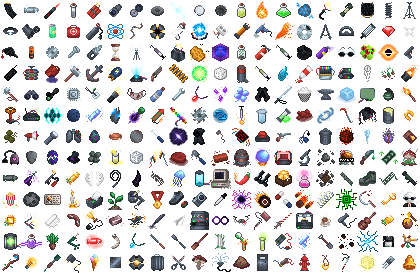
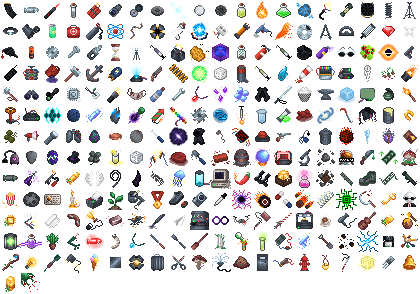
update

diff --git a/index.html b/index.html
@@ -67,7 +67,7 @@
             transition: transform 0.1s, border-color 0.2s, background-color 0.2s;
             
             box-shadow: inset 0 0 0 2px transparent; 
-            background-size: 1260px 819px; 
+            background-size: 1260px 882px; 
         }
 
         .item-icon:hover {
@@ -326,7 +326,7 @@
             { id: 114, name: "Сконцентрированная кислота", desc: "Шанс выстрелить капсулой с кислотой. Поражённое капсулой существо начнёт бесконечно истекать жидкостью, пока не погибнет. Шанс зависит от удачи." },
             { id: 115, name: "Стволовые клетки", desc: "Снижает максимальный запас здоровья на 30%. Далее каждый выбранный предмет дополнительно будет повышать максимальный запас здоровья на 15%." },
             { id: 116, name: "Квазар", desc: "Добавляет дополнительную заряжаемую атаку лазером с неограниченной дальностью. Заряд накапливается в процессе стрельбы." },
-            { id: 117, name: "Монтировка", desc: "Позволяет открывать все запертые двери без использования автоматической отмычки." },
+            { id: 117, name: "Монтировка", desc: "Первое попадание по существу наносит в 2 раза больше урона." },
             { id: 118, name: "Неисправный экзоскелет", desc: "Снижает скорость ходьбы и бега на 40%. Повышает максимальный запас здоровья на 500 единиц. Не даёт здоровью повышаться и блокирует регенерацию. Враждебные турели больше не атакуют персонажа." },
             { id: 119, name: "Нитроглицерин", desc: "Делает все жидкости, созданные персонажем или оружием взрывными." },
             { id: 120, name: "Золотая подкова", desc: "Повышает: удачу на 2, скорость ходьбы и бега персонажа на 10%." },
@@ -346,7 +346,7 @@
             { id: 134, name: "Русская рулетка", desc: "Повышает урон в 2.5 раза. В персонажа постоянно целится револьвер, который может выстрелить вместе с ним всегда с шансом 1/6. Урон выстрела револьвера зависит от урона игрока." },
             { id: 135, name: "Машинное масло", desc: "Повышает скорострельность на 75%. Персонаж замедляется плавно и скользит." },
             { id: 136, name: "Мусорное ведро", desc: "Каждая утилизация выбора предметов даёт 3 одноразовых замены." },
-            { id: 137, name: "Дьявольский кубик", desc: "Даёт возможность продолжать замены после того, как они израсходуются. Каждая замена отнимет у персонажа 15 единиц максимального запаса здоровья." },
+            { id: 137, name: "Дьявольский кубик", desc: "Даёт возможность продолжать замены после того, как они израсходуются. Каждая замена отнимет у персонажа 10 единиц максимального запаса здоровья." },
             { id: 138, name: "Сосулька", desc: "Снижает урон на 30%. Снаряды пролетают сквозь существ и всегда имеют замораживающий эффект." },
             { id: 139, name: "Дух шахтёра", desc: "Повышает скорость добычи лазерным буром в 5 раз. Каждый добытый камень взрывается и создаёт на своём месте враждебного призрака." },
             { id: 140, name: "Коробок спичек", desc: "Шанс оставить на месте уничтоженного снаряда горящую спичку. Спичка поджигает существ при контакте и затухает через 5 сек. Шанс зависит от удачи." },
@@ -469,7 +469,9 @@
             { id: 257, name: "Иголка", desc: "Рывок наносит персонажу 1 урон. Увеличивает силу рывка на 50%." },
             { id: 258, name: "Заряженный кубик", desc: "Батарейки дополнительно дают 1 временную замену. Создаёт 1 батарейку."},
             { id: 259, name: "Транзистор", desc: "Все батарейки, найденные в дальнейшем, заменяются случайными картриджами. Создаёт 1 случайный картридж."},
-            { id: 260, name: "Колокол", desc: "При получении урона персонаж издаёт громкий звук колокола, отпугивающий существ в пределах видимости, но не чаще, чем раз в 3 сек."}
+            { id: 260, name: "Колокол", desc: "При получении урона персонаж издаёт громкий звук колокола, отпугивающий существ в пределах видимости, но не чаще, чем раз в 3 сек."},
+            { id: 261, name: "Золотая батарейка", desc: "Повышает удачу на 1. Каждая последующая батарейка дополнительно повышает удачу на 0.5. Создаёт 1 батарейку."},
+            { id: 262, name: "Бешенство", desc: "Шанс заставить случайное существо в пределах видимости персонажа атаковать других существ."}
         ];
 
         const grid = document.getElementById('grid');
@@ -527,7 +529,7 @@
             const mY = Math.floor(index / columns) * tileSize * modalScale;
             
             modalIcon.style.backgroundPosition = `-${mX}px -${mY}px`;
-            modalIcon.style.backgroundSize = `${columns * tileSize * modalScale}px ${13 * tileSize * modalScale}px`;
+            modalIcon.style.backgroundSize = `${columns * tileSize * modalScale}px ${14 * tileSize * modalScale}px`;
 
             modal.classList.add('active');
         }
